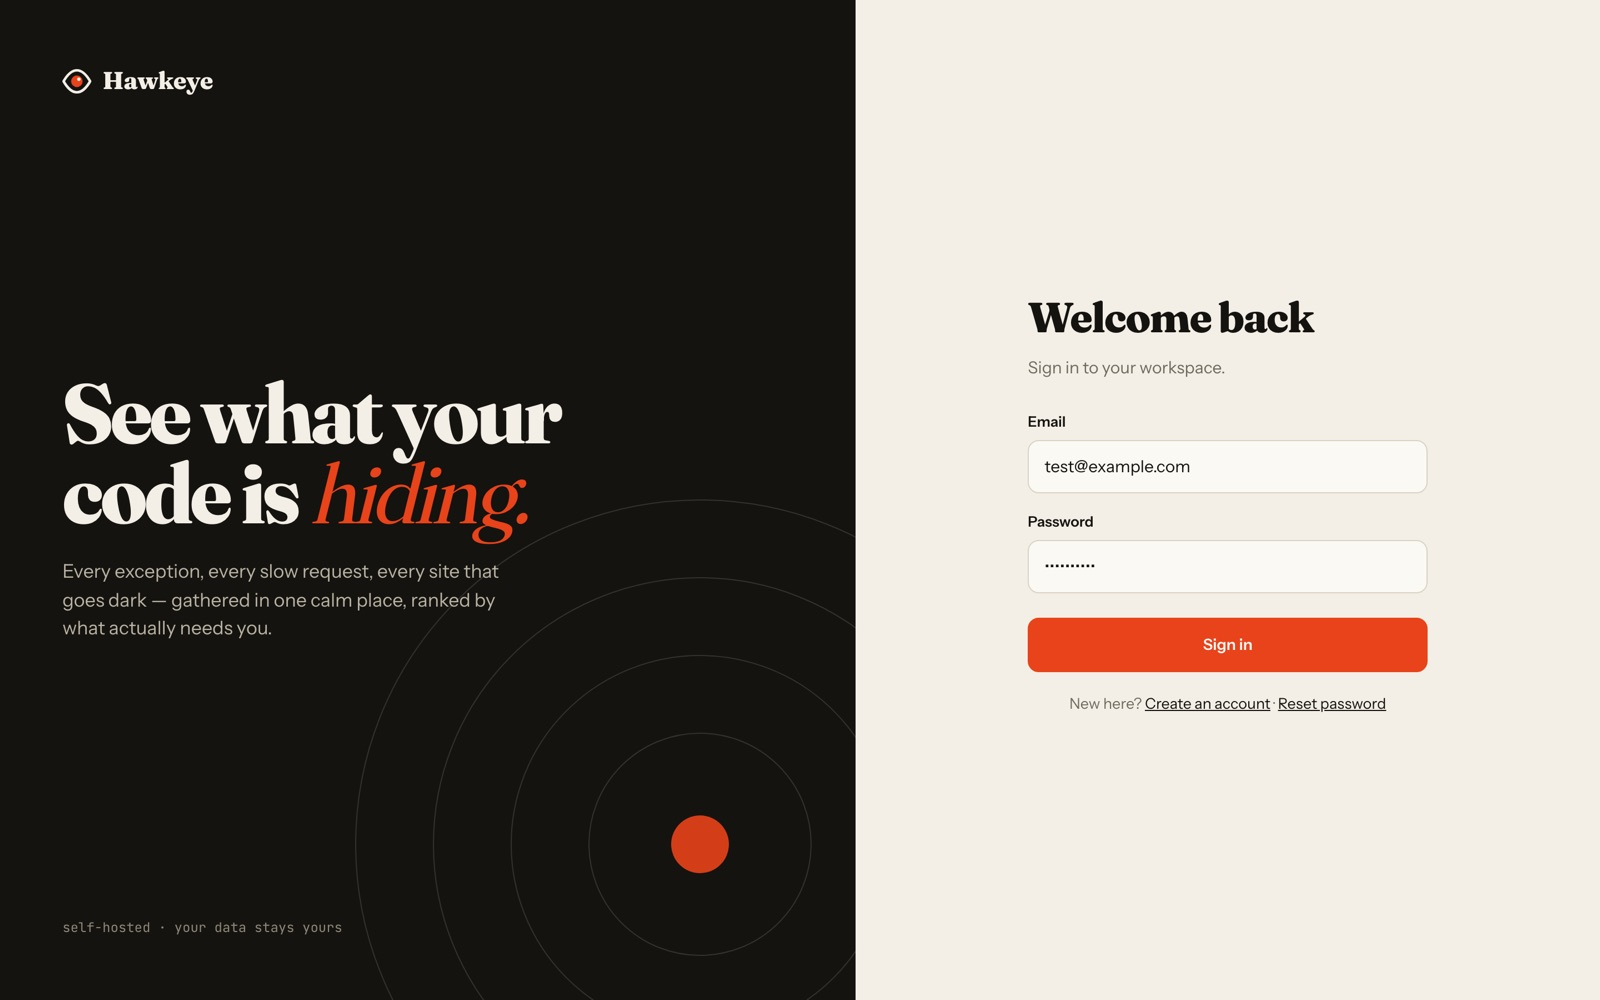
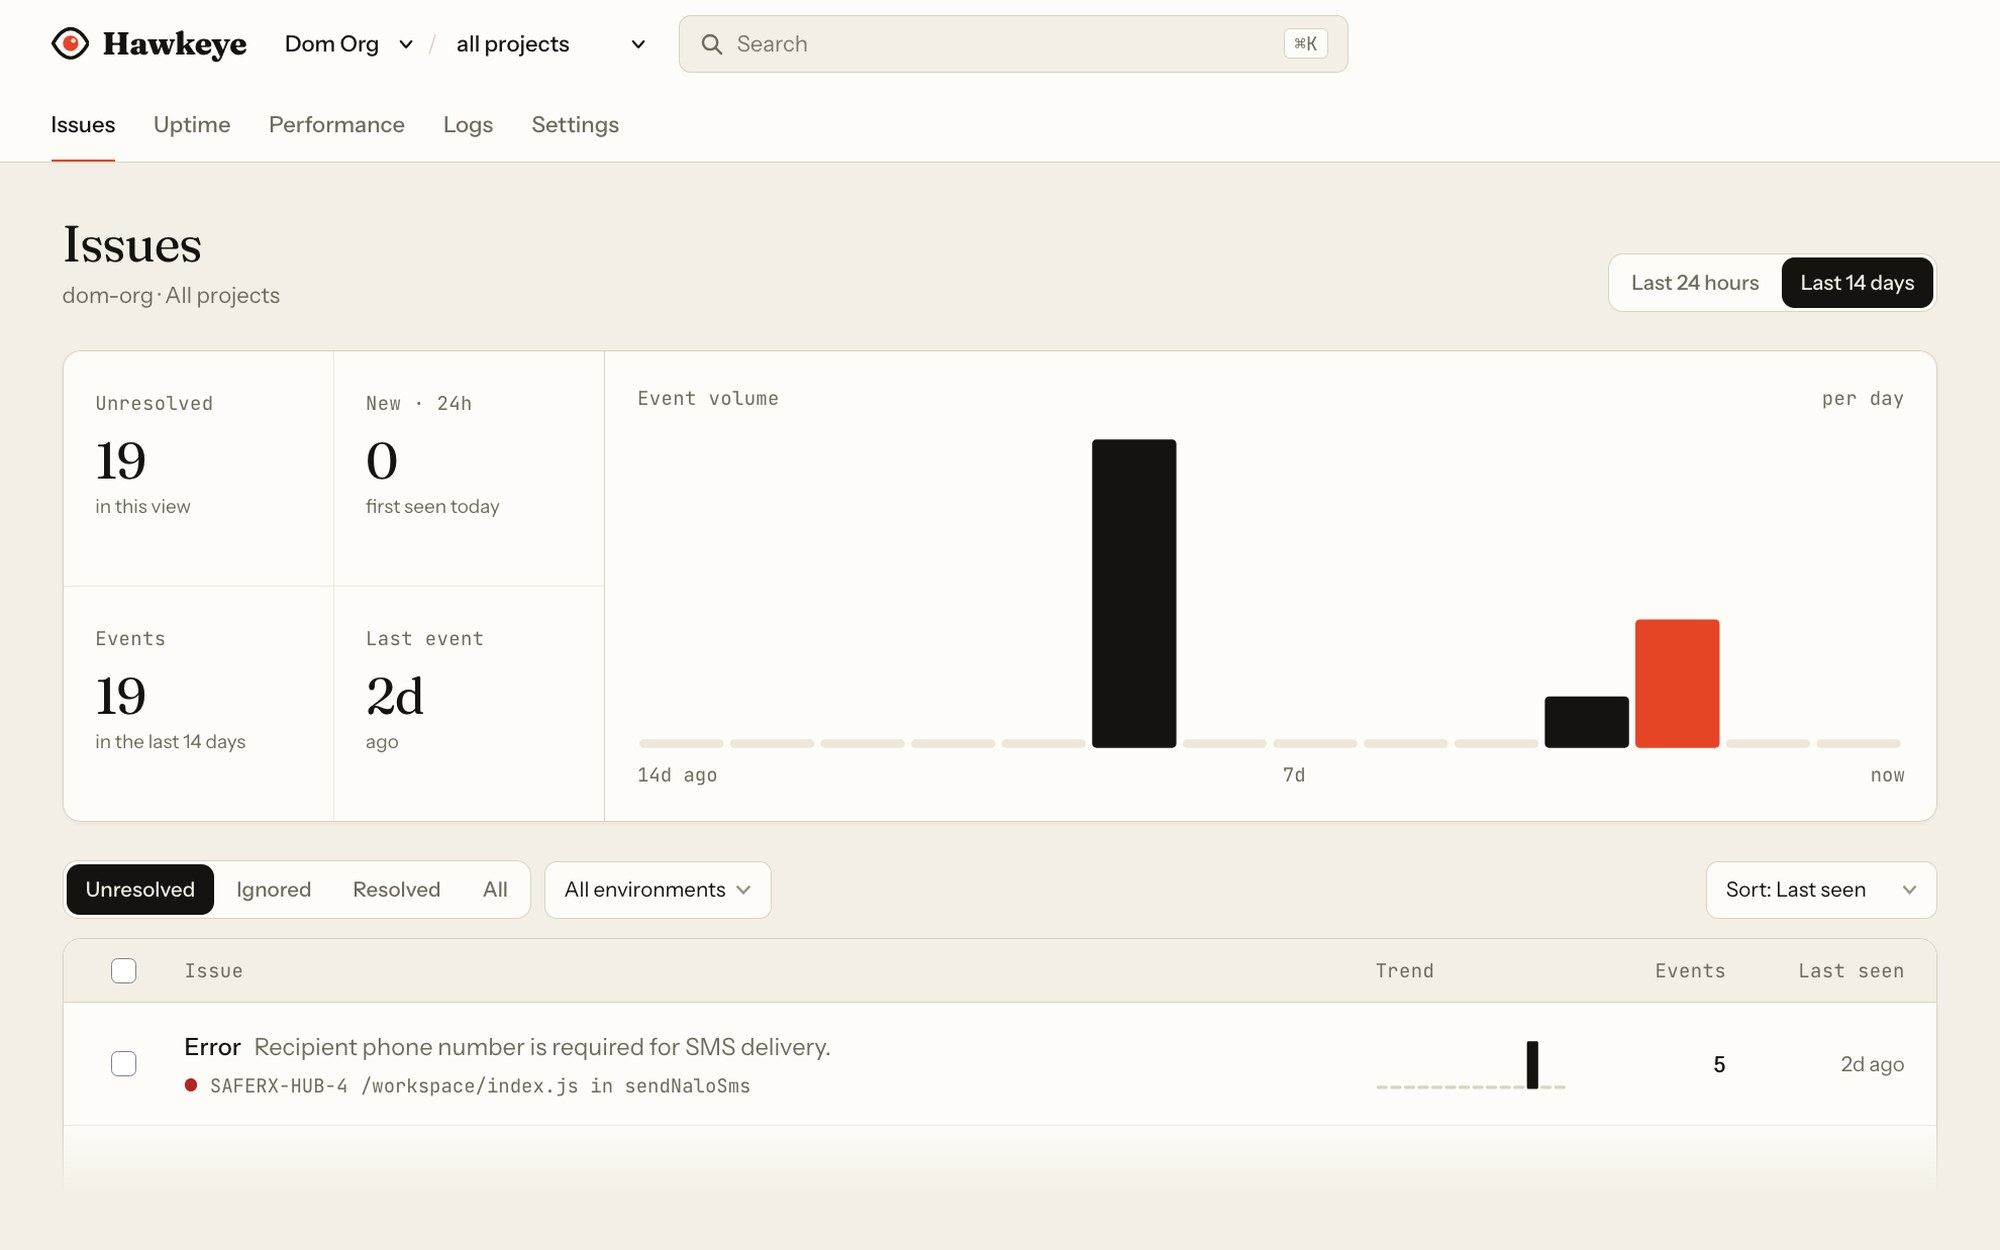
Use real Hawkeye dashboard screenshot and live link
- Replace the design-prototype image with a screenshot of the live issues
  dashboard, recomposed to the 16:10 preview frame (other projects' rows
  and the server hostname removed)
- Drop the "Design prototype" tag and custom frame label; the frame now
  shows the live address
- Add the live demo link (plain HTTP, no domain yet)

diff --git a/src/data/projects.js b/src/data/projects.js
@@ -38,9 +38,7 @@ export const projects = [
     featured: true,
     title: 'Hawkeye',
     image: '/projects/hawkeye.jpg',
-    imageAlt: 'Hawkeye sign-in screen',
-    imageNote: 'Design prototype',
-    frameLabel: 'hawkeye · self-hosted',
+    imageAlt: 'Hawkeye issues dashboard showing unresolved errors, event volume and recent issues',
     summary: 'Self-hosted, Sentry-compatible error tracker with issues, uptime checks, performance, and logs, built on the open-source GlitchTip core.',
     problem: 'Teams wanted Sentry-style error tracking they could run on their own server, with a modern interface and admin tools to operate it safely.',
     stack: ['React 19', 'TypeScript', 'TanStack Query', 'Django', 'PostgreSQL', 'Docker'],
@@ -50,7 +48,7 @@ export const projects = [
       'Fixed the admin exposing API tokens and issue content, and shipped a Docker Compose deployment for a VPS',
     ],
     github: 'https://github.com/Dominic62q/HawkeyeFrontendMain',
-    demo: null,
+    demo: 'http://13.140.136.228:8090/',
   },
   {
     id: 2,
